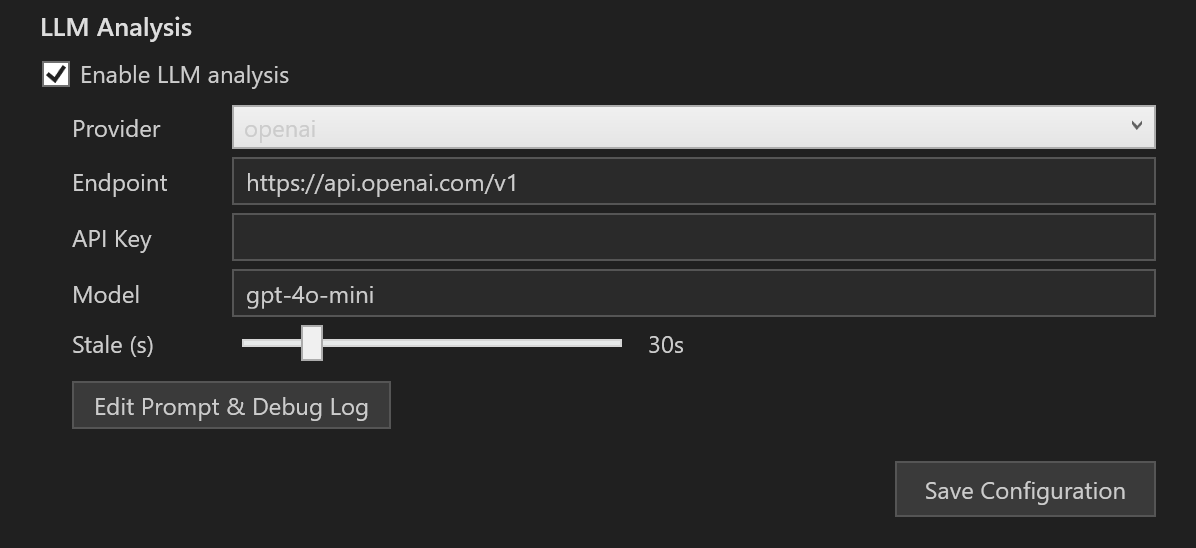
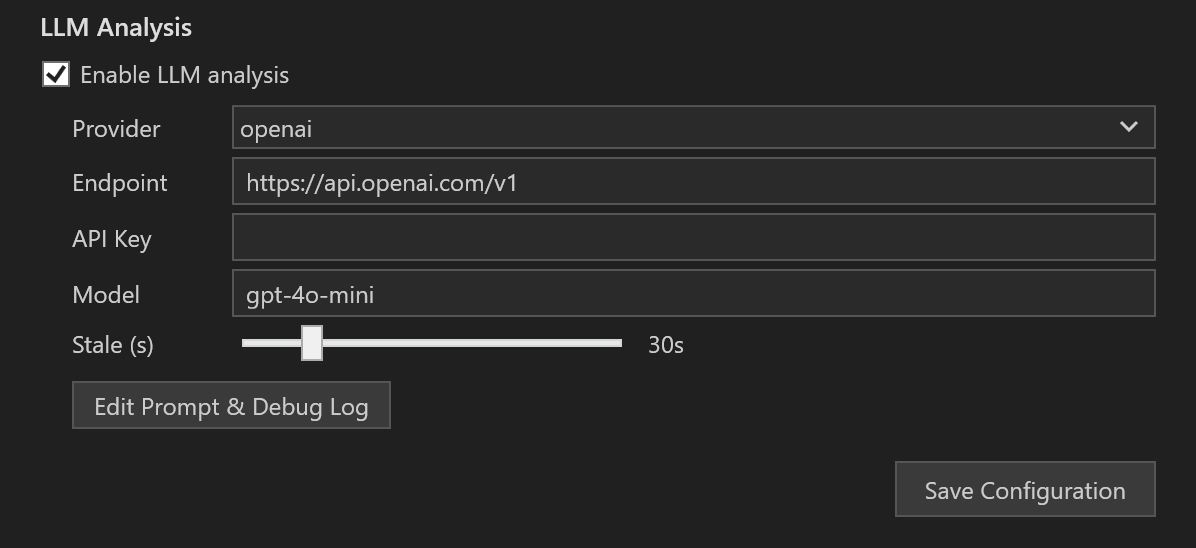
Refresh the screenshots of the fixed Options panel, combo box and headers
The Options, LLM settings and Applications screenshots showed the cut
notification label, the light Provider combo box and the white column
headers.

Changed region(s): [[0.1856, 0.1861, 0.99, 0.2792]]

diff --git a/doc/USER_MANUAL.md b/doc/USER_MANUAL.md
@@ -106,7 +106,7 @@ Window tracking continues while another view is open, so indicators are up to da
   - If **Close to system tray** is enabled (default): hides the panel to the system tray.
   - If disabled: exits the application entirely.
 
-<img src="images/options.png" alt="The Options panel open under the title bar, with the Transparency slider, the switching options, the agent notification option and the All settings button" width="413">
+<img src="images/options.png" alt="The Options panel with the Transparency slider, the switching options, the agent notification option and the All settings button" width="272">
 
 ### 2.4 System Tray
 
